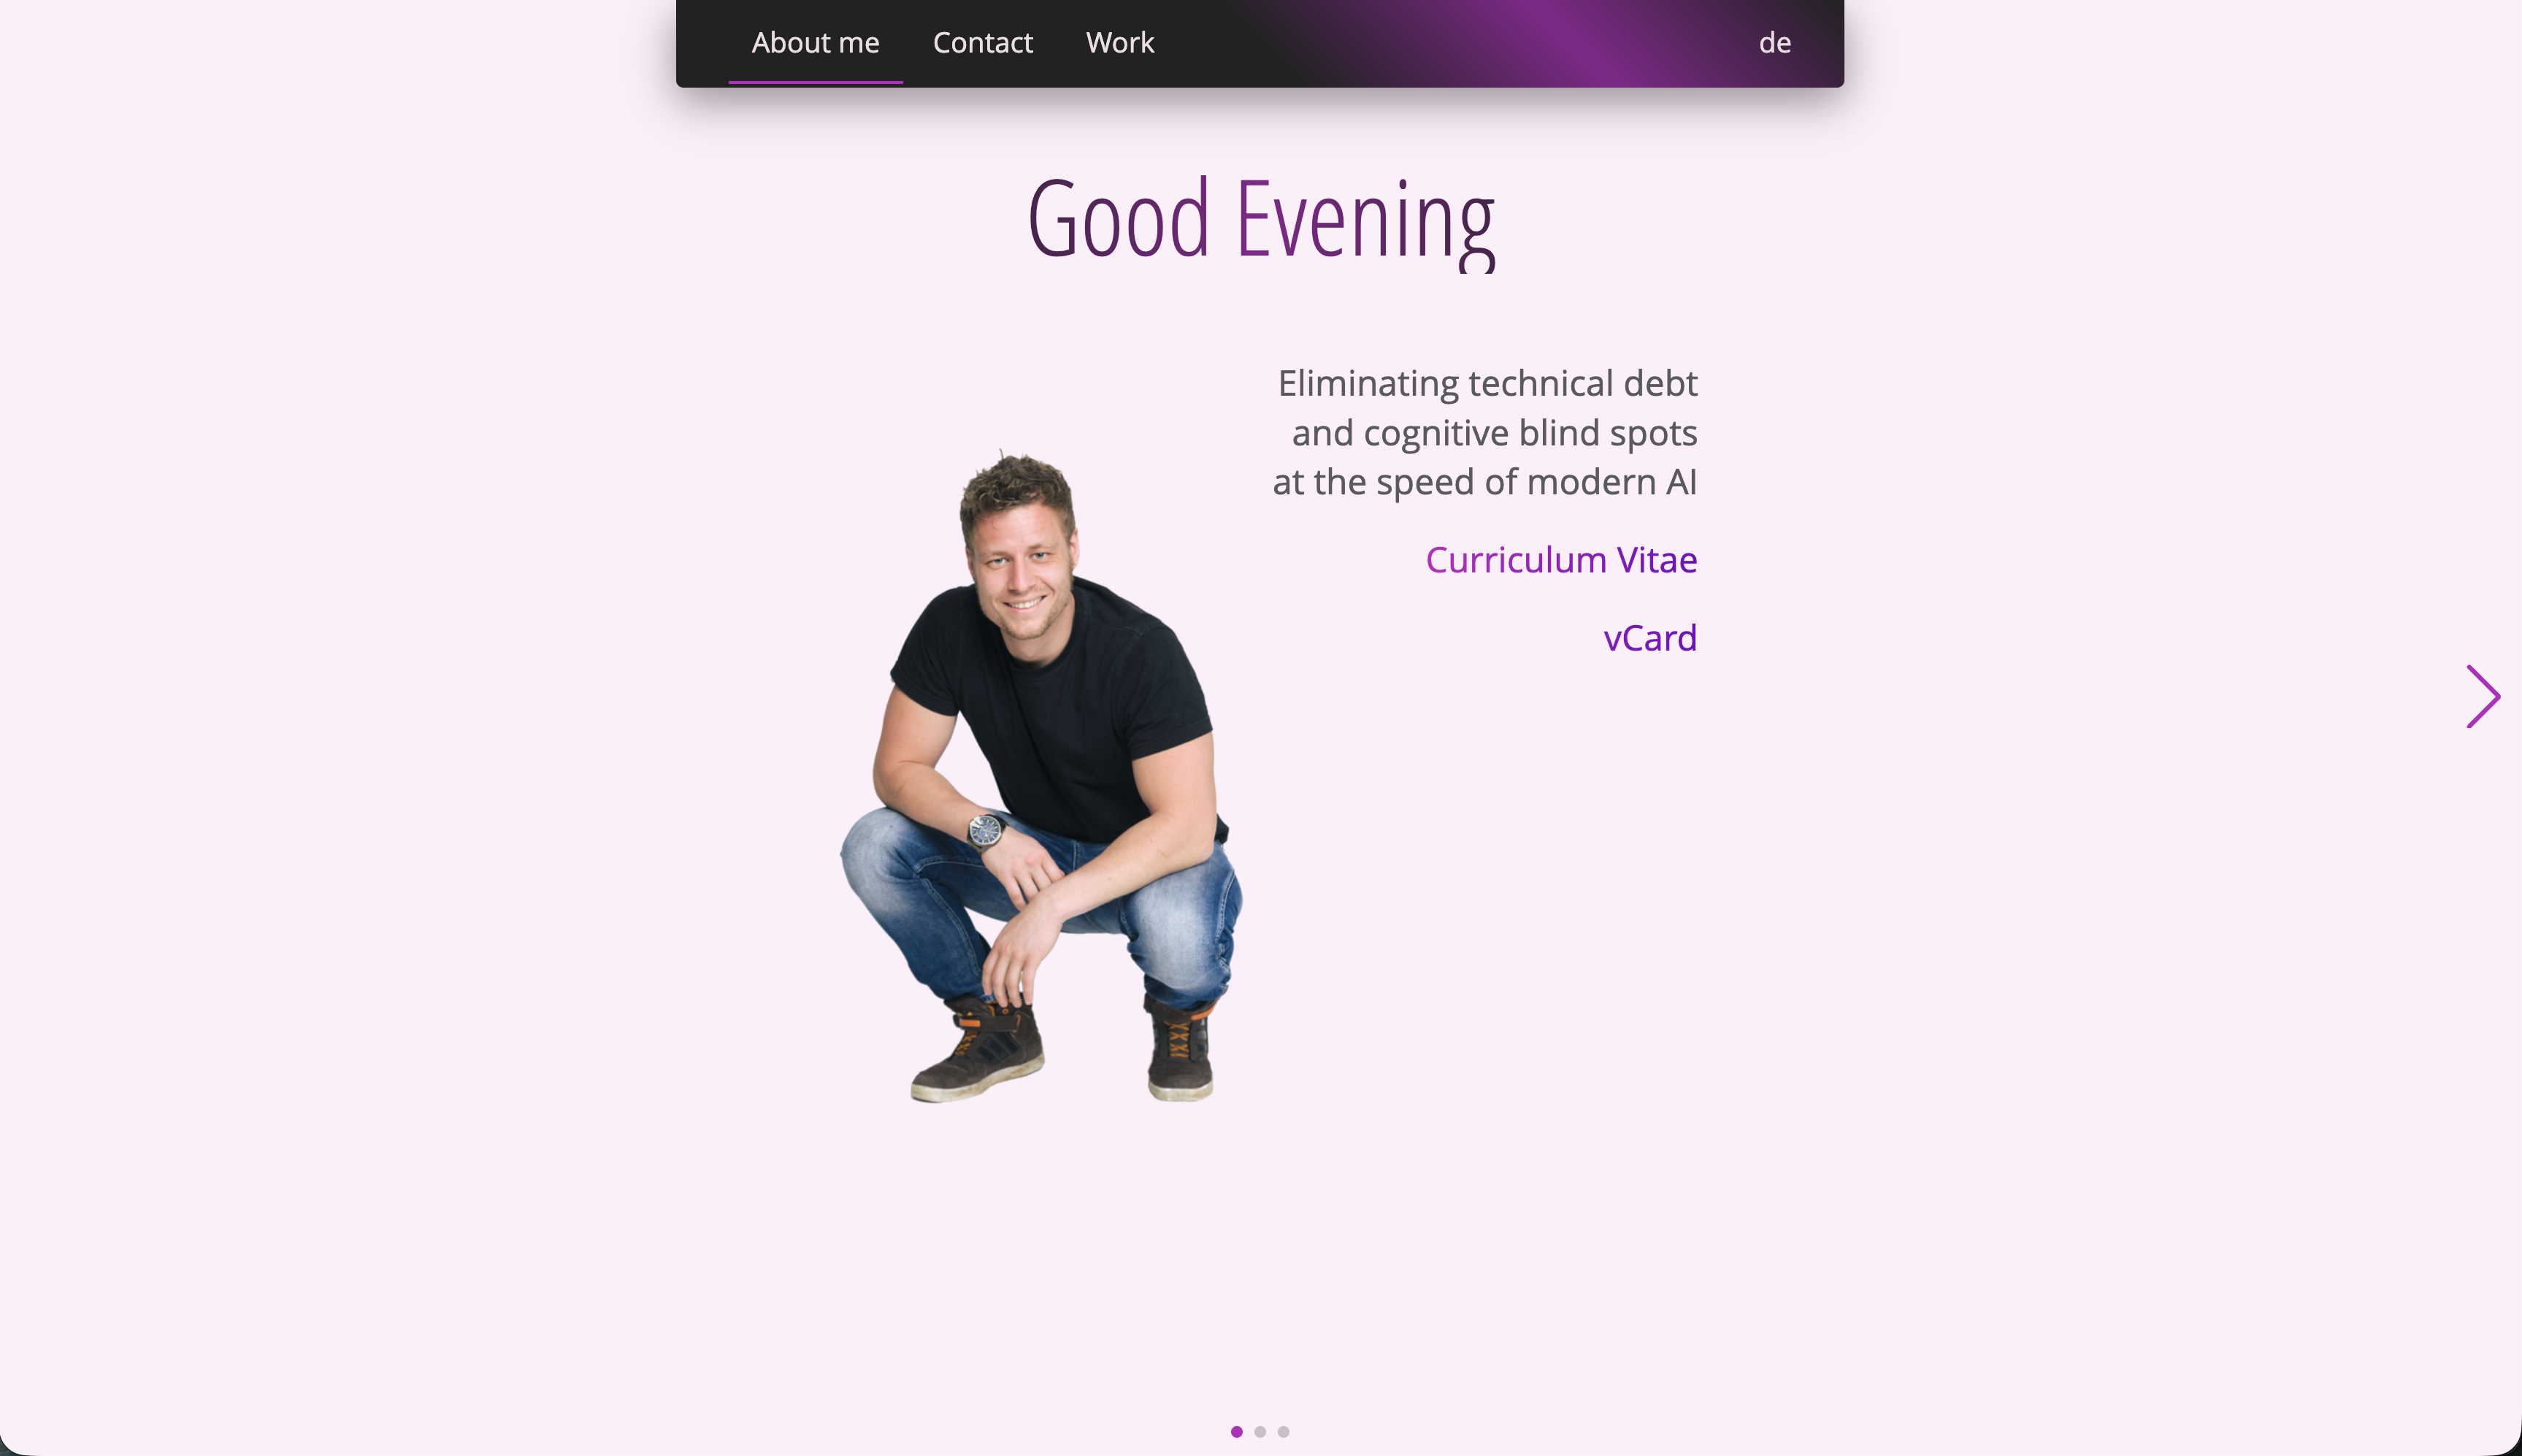
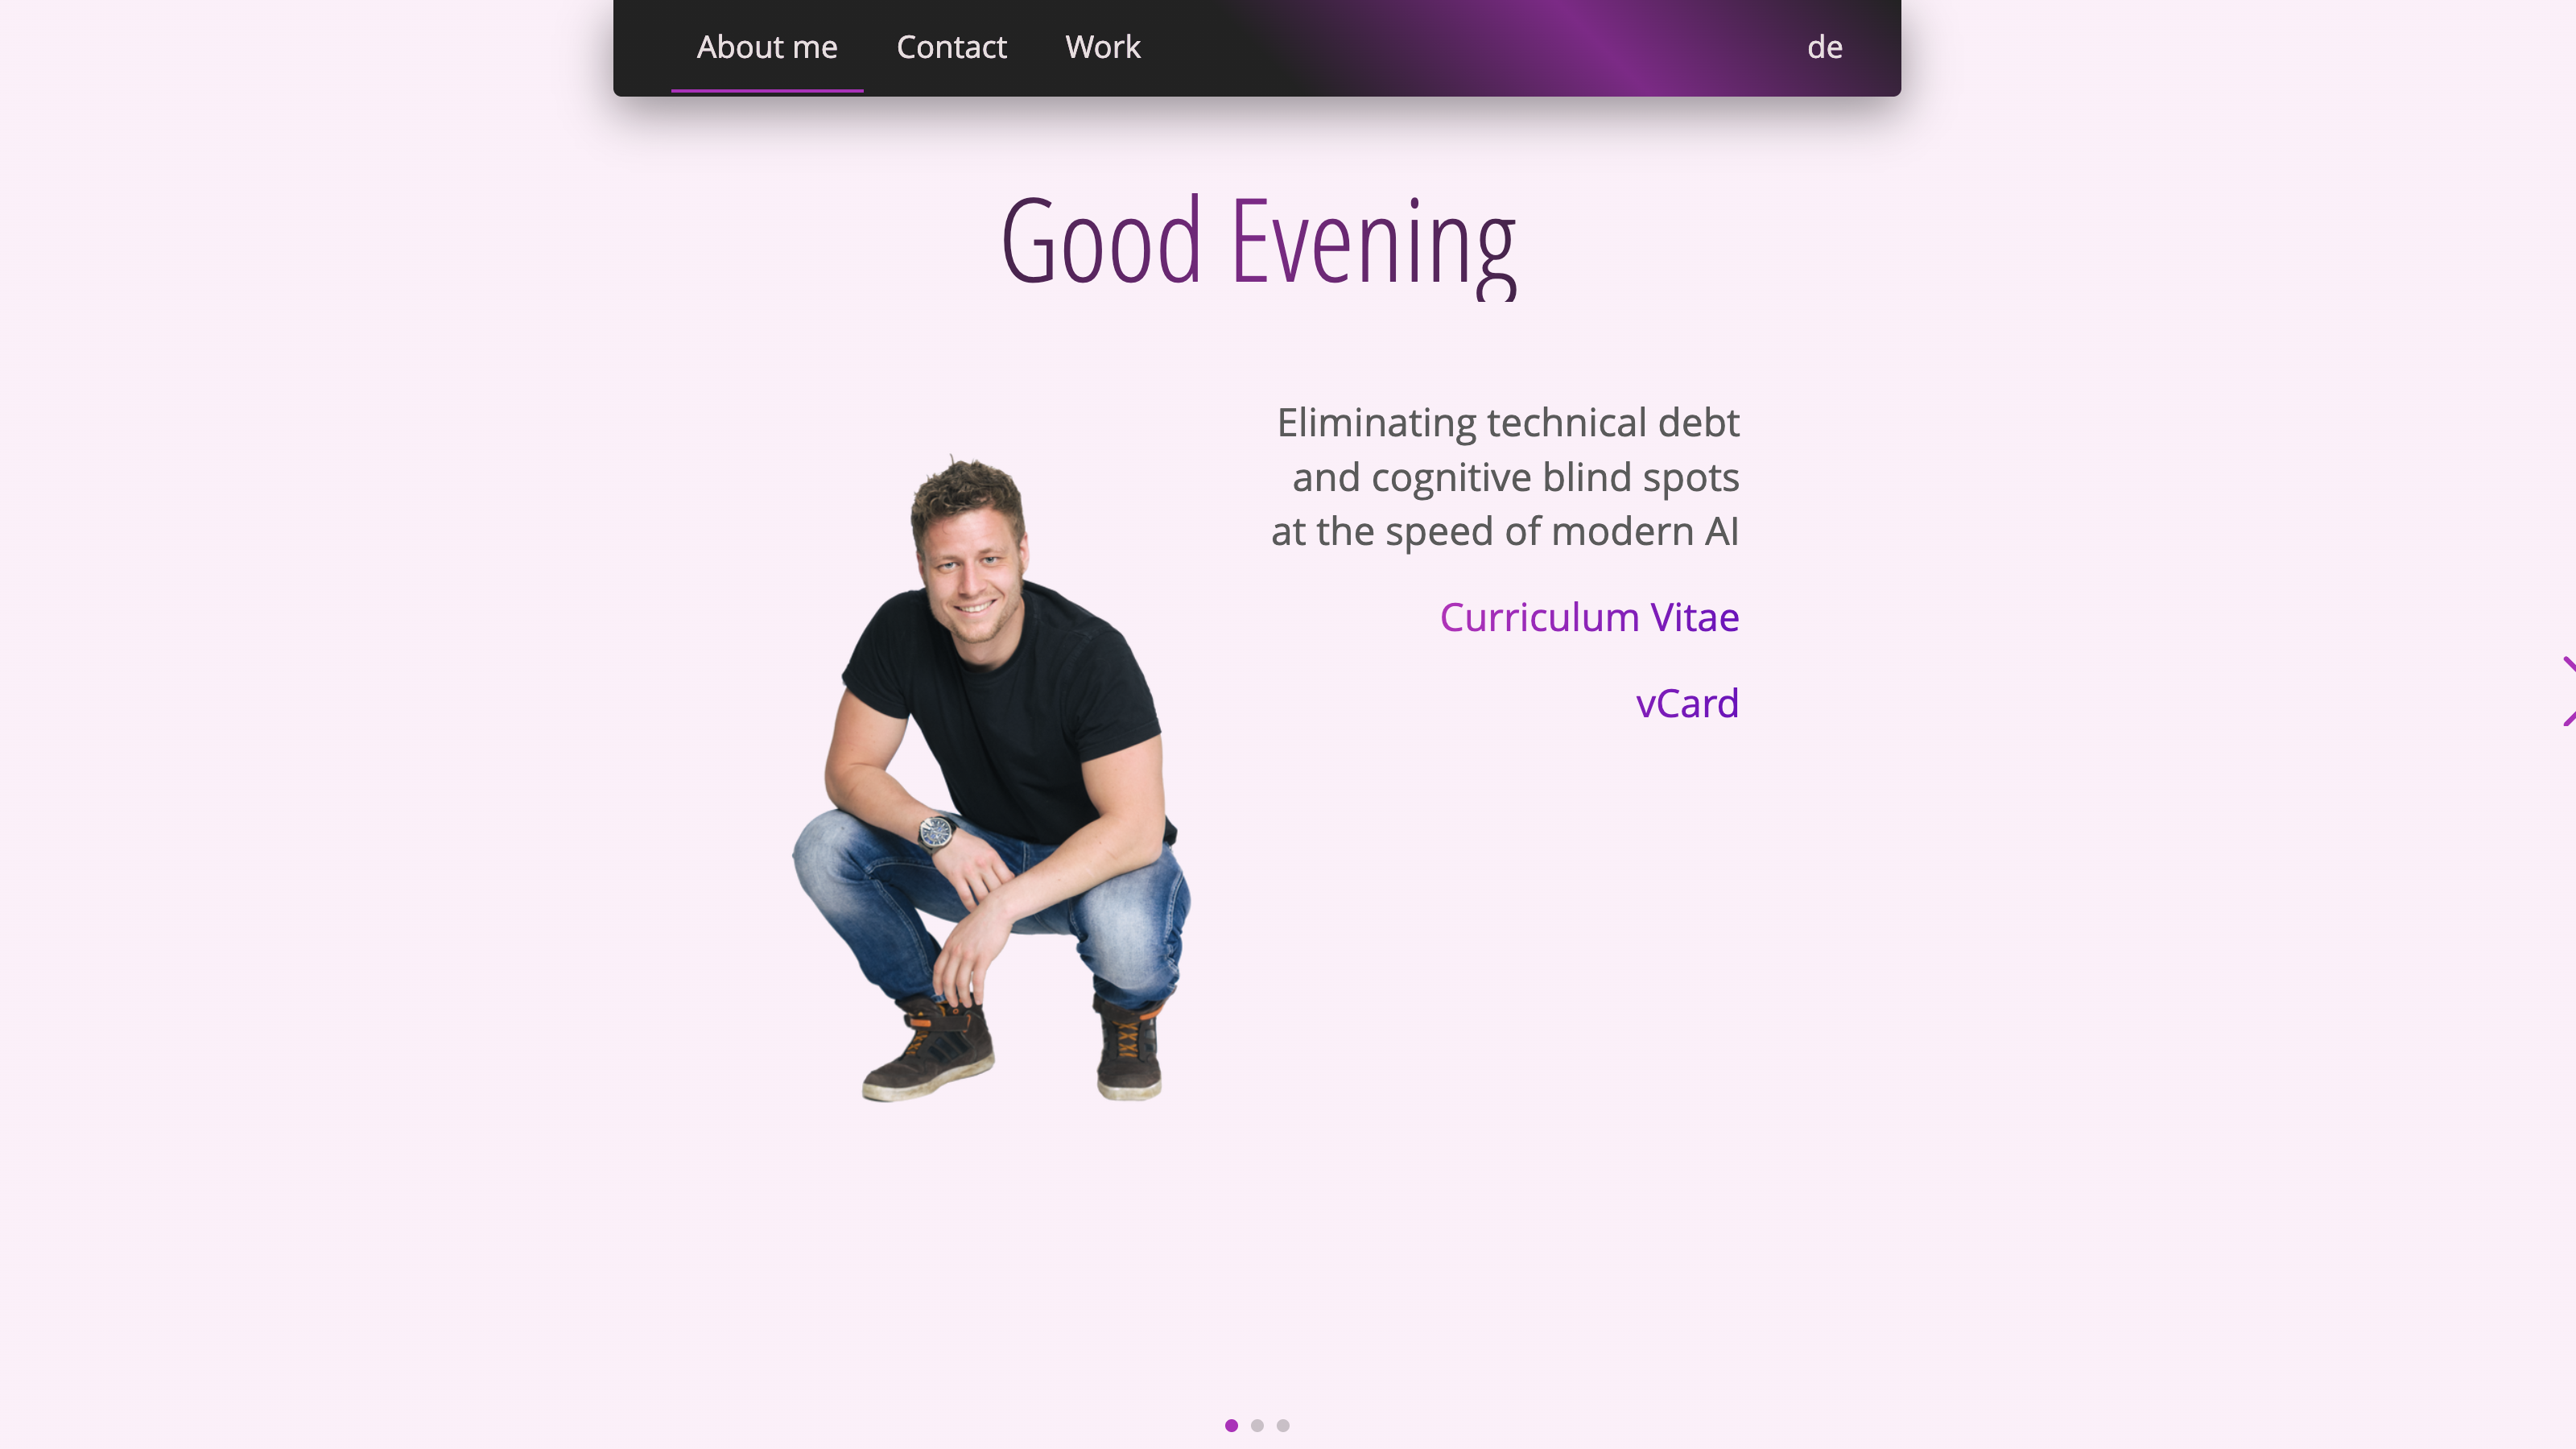
Automatic update to new version.

diff --git a/source/index.ts b/source/index.ts
@@ -21,10 +21,13 @@ import {
     camelCaseToDelimited,
     copy,
     extend,
+    getParents,
     globalContext,
     Logger,
     Mapping,
-    trailingThrottle
+    NOOP,
+    trailingThrottle,
+    timeout
 } from 'clientnode'
 import {object} from 'clientnode/property-types'
 import Headroom from 'headroom.js'
@@ -166,6 +169,8 @@ export class HomePage<
             mainSwiper: 'section.swiper',
             sectionSwiperWrapper: '.hp-section__swiper-wrapper',
 
+            projectCards: '.hp-card',
+            projectCardOpenClassName: 'hp-card--open',
             projectSwiper: '.hp-card .swiper',
 
             waveSurfer: '.hp-audio-player'
@@ -238,6 +243,7 @@ export class HomePage<
     mainSwiperDomNode: HTMLElement | null = null
     sectionSwiperWrapperDomNodes: NodeListOf<HTMLElement> | null = null
 
+    projectCardDomNodes: NodeListOf<HTMLElement> | null = null
     projectSwiperDomNodes: NodeListOf<HTMLElement> | null = null
 
     waveSurferDomNodes: NodeListOf<HTMLElement> | null = null
@@ -323,6 +329,62 @@ export class HomePage<
         if (this.projectSwiperDomNodes)
             for (const domNode of this.projectSwiperDomNodes)
                 new Swiper(domNode, copy(this.options.projectSwiper))
+        let openProjectDomNode: HTMLElement | null = null
+        let openProjectPresenterDomNode: HTMLElement | null = null
+        let closeOpenPresenterDomNode: () => void = NOOP
+        for (const domNode of this.projectCardDomNodes) {
+            this.addSecureEventListener(
+                domNode,
+                'click',
+                () => {
+                    if (openProjectDomNode === domNode)
+                        return
+
+                    closeOpenPresenterDomNode()
+
+                    openProjectDomNode = domNode
+                    openProjectPresenterDomNode = domNode.cloneNode(true)
+                    domNode.after(openProjectPresenterDomNode)
+                    openProjectPresenterDomNode.classList.add(
+                        this.options.selectors.projectCardOpenClassName
+                    )
+
+                    // Listen for clicks anywhere on the webpage to close opened project.
+                    const deregister = this.addSecureEventListener(
+                        globalContext.document,
+                        'click',
+                        (event) => {
+                            const clickWasInOpenProjectCard = Boolean(
+                                event.target &&
+                                getParents(event.target)
+                                    .some((parentDomNode) =>
+                                        openProjectPresenterDomNode === parentDomNode ||
+                                        openProjectDomNode === parentDomNode
+                                    )
+                            )
+                            if (!clickWasInOpenProjectCard)
+                                closeOpenPresenterDomNode()
+                        }
+                    )
+                    closeOpenPresenterDomNode = () => {
+                        /*
+                        openProjectDomNode.addEventListener(
+                            'transitionend',
+                            () => {*/
+                        deregister()
+                        openProjectPresenterDomNode.remove()
+                        openProjectDomNode = null
+                        openProjectPresenterDomNode = null
+                        closeOpenPresenterDomNode = NOOP/*
+                            }
+                        )
+                        openProjectDomNode.classList.remove(
+                            this.options.selectors.projectCardOpenClassName
+                        )*/
+                    }
+                }
+            )
+        }
 
         if (globalContext.window)
             this.addSecureEventListener(
@@ -432,6 +494,9 @@ export class HomePage<
             this.options.selectors.sectionSwiperWrapper
         )
 
+        this.projectCardDomNodes = this.hostDomNode.querySelectorAll(
+            this.options.selectors.projectCards
+        )
         this.projectSwiperDomNodes = this.hostDomNode.querySelectorAll(
             this.options.selectors.projectSwiper
         )

diff --git a/source/index.css b/source/index.css
@@ -200,9 +200,9 @@ home-page {
     }
 
     .hp-card {
+        height: 300px;
         width: 100%;
         max-width: 350px;
-        height: 300px;
 
         margin-top: calc(var(--wu-default-space) * 2);
         position: relative;
@@ -215,6 +215,16 @@ home-page {
         box-shadow: var(--box-shadow-card);
 
         transition: all 0.2s linear;
+
+        &.hp-card--open {
+            position: absolute;
+            left: 0;
+            z-index: 100;
+
+            height: 100vh;
+            width: 100%;
+            max-width: 1000px;
+        }
 
         @media (--wu-extra-extra-small) {
             width: 100%;

diff --git a/source/type.ts b/source/type.ts
@@ -40,6 +40,8 @@ export interface DefaultOptions {
         mainSwiper: string
         sectionSwiperWrapper: string
 
+        projectCards: string
+        projectCardOpenClassName: string
         projectSwiper: string
 
         waveSurfer: string